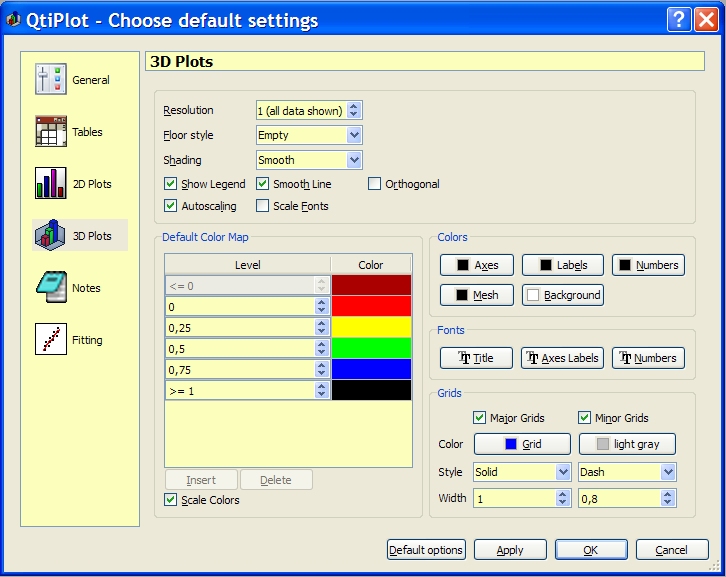
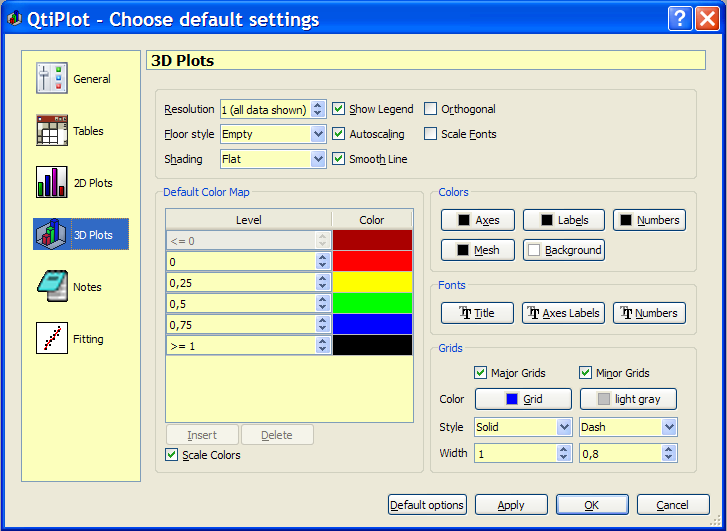
Rearranged 3D plots tab in preferences dialog.

Changed region(s): [[0.0, 0.0, 1.0, 1.0], [0.2121, 0.7834, 0.5758, 0.904]]

diff --git a/trunk/qtiplot/src/core/ConfigDialog.cpp b/trunk/qtiplot/src/core/ConfigDialog.cpp
@@ -545,26 +545,26 @@ void ConfigDialog::initPlots3DPage()
 
 	boxShowLegend = new QCheckBox();
 	boxShowLegend->setChecked(app->d_3D_legend);
-	topLayout->addWidget(boxShowLegend, 3, 0);
+	topLayout->addWidget(boxShowLegend, 0, 2);
 
 	boxSmoothMesh = new QCheckBox();
 	boxSmoothMesh->setChecked(app->d_3D_smooth_mesh);
-	topLayout->addWidget(boxSmoothMesh, 3, 1);
+	topLayout->addWidget(boxSmoothMesh, 2, 2);
 
 	boxOrthogonal = new QCheckBox();
 	boxOrthogonal->setChecked(app->d_3D_orthogonal);
-	topLayout->addWidget(boxOrthogonal, 3, 2);
+	topLayout->addWidget(boxOrthogonal, 0, 3);
 
 	boxAutoscale3DPlots = new QCheckBox();
 	boxAutoscale3DPlots->setChecked(app->d_3D_autoscale);
-	topLayout->addWidget(boxAutoscale3DPlots, 4, 0);
+	topLayout->addWidget(boxAutoscale3DPlots, 1, 2);
 
 	boxScaleFonts3DPlots = new QCheckBox();
 	boxScaleFonts3DPlots->setChecked(app->scale3DPlotFonts());
-	topLayout->addWidget(boxScaleFonts3DPlots, 4, 1);
+	topLayout->addWidget(boxScaleFonts3DPlots, 1, 3);
 
-	topLayout->setColumnStretch(3, 1);
-	topLayout->setRowStretch(5, 1);
+	topLayout->setColumnStretch(5, 1);
+	topLayout->setRowStretch(4, 1);
 
     colorMapBox = new QGroupBox();
     QHBoxLayout *colorMapLayout = new QHBoxLayout( colorMapBox );

diff --git a/trunk/qtiplot/src/core/globals.h b/trunk/qtiplot/src/core/globals.h
@@ -34,7 +34,7 @@ const int min_version = 9;
 const int patch_version = 8;
 //! Extra version information string (like "alpha", "-2", etc...)
 const char * extra_version = ".10";
-const char * svn_revision = " svn 2379";//SVN_REVISION;  //SRB: SVN_REVISION set by compiler from QTIPLOT_SVN_REVISION environment variable. (10/1/2010 )
+const char * svn_revision = " svn 2380";//SVN_REVISION;  //SRB: SVN_REVISION set by compiler from QTIPLOT_SVN_REVISION environment variable. (10/1/2010 )
 
 //! Copyright string containing the author names
 const char * copyright_string = "Copyright (C) 2004-2012 Ion Vasilief";
